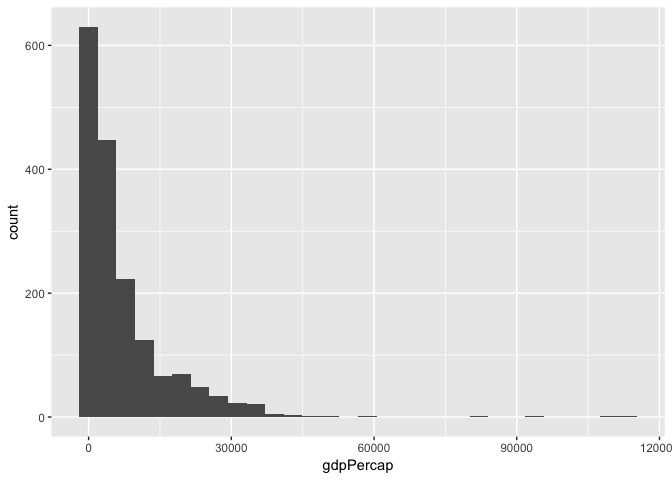
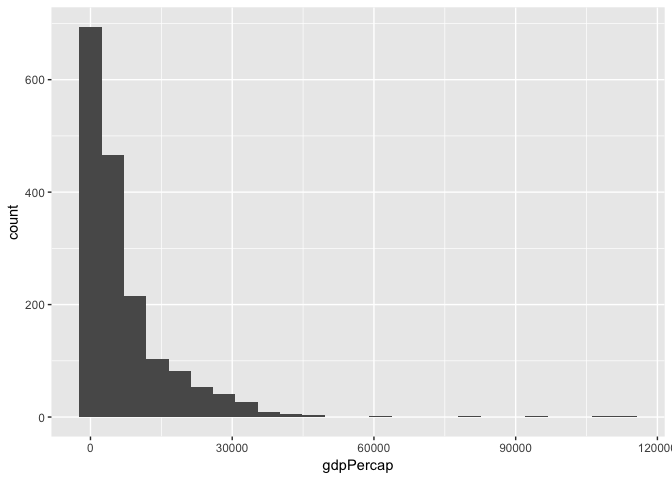
Finish mandatory parts of homework

diff --git a/hw02_gapminder.md b/hw02_gapminder.md
@@ -166,10 +166,8 @@ The minimum `gdpPercap` is 241.17 and the maximum is
 
 ``` r
 ggplot(gapminder, aes(gdpPercap)) +
-  geom_histogram()
+  geom_histogram(bins=25)
 ```
-
-    ## `stat_bin()` using `bins = 30`. Pick better value with `binwidth`.
 
 ![](hw02_gapminder_files/figure-gfm/unnamed-chunk-13-1.png)<!-- --> The
 distribution decays exponentially.
@@ -190,3 +188,93 @@ sd(gapminder$gdpPercap)
 The standard deviation is 9857.455
 
 ### Exploring various plot types
+
+``` r
+gapminder %>%
+  ggplot(aes(gdpPercap, lifeExp)) +
+  scale_x_log10() + 
+  geom_point()
+```
+
+![](hw02_gapminder_files/figure-gfm/unnamed-chunk-16-1.png)<!-- -->
+
+``` r
+gapminder %>%
+  ggplot(aes(lifeExp)) +
+  geom_histogram()
+```
+
+    ## `stat_bin()` using `bins = 30`. Pick better value with `binwidth`.
+
+![](hw02_gapminder_files/figure-gfm/unnamed-chunk-17-1.png)<!-- -->
+
+``` r
+gapminder %>%
+  ggplot(aes(continent, lifeExp)) +
+  geom_boxplot()
+```
+
+![](hw02_gapminder_files/figure-gfm/unnamed-chunk-18-1.png)<!-- -->
+\#\#\# Using `select` and `filter` with piping into `ggplot`
+
+``` r
+gapminder %>%
+  select(c(continent, gdpPercap, year)) %>%
+  filter(year %in% 1960:1980) %>%
+  ggplot(aes(continent, gdpPercap)) +
+  scale_y_log10() +
+  geom_boxplot()
+```
+
+![](hw02_gapminder_files/figure-gfm/unnamed-chunk-19-1.png)<!-- -->
+
+``` r
+gapminder %>%
+  select(c(country, pop, gdpPercap, year)) %>%
+  filter(gdpPercap > mean(gdpPercap)+2.5*sd(gdpPercap)) %>%
+  filter(year == 1997) %>%
+  ggplot(aes(country, pop)) +
+  geom_point()
+```
+
+![](hw02_gapminder_files/figure-gfm/unnamed-chunk-20-1.png)<!-- -->
+\#\#\# But I want to do more\!
+
+``` r
+filter(gapminder, country == c("Rwanda", "Afghanistan"))
+```
+
+    ## # A tibble: 12 x 6
+    ##    country     continent  year lifeExp      pop gdpPercap
+    ##    <fct>       <fct>     <int>   <dbl>    <int>     <dbl>
+    ##  1 Afghanistan Asia       1957    30.3  9240934      821.
+    ##  2 Afghanistan Asia       1967    34.0 11537966      836.
+    ##  3 Afghanistan Asia       1977    38.4 14880372      786.
+    ##  4 Afghanistan Asia       1987    40.8 13867957      852.
+    ##  5 Afghanistan Asia       1997    41.8 22227415      635.
+    ##  6 Afghanistan Asia       2007    43.8 31889923      975.
+    ##  7 Rwanda      Africa     1952    40    2534927      493.
+    ##  8 Rwanda      Africa     1962    43    3051242      597.
+    ##  9 Rwanda      Africa     1972    44.6  3992121      591.
+    ## 10 Rwanda      Africa     1982    46.2  5507565      882.
+    ## 11 Rwanda      Africa     1992    23.6  7290203      737.
+    ## 12 Rwanda      Africa     2002    43.4  7852401      786.
+
+``` r
+filter(gapminder, country=='Rwanda' | country=='Afghanistan')
+```
+
+    ## # A tibble: 24 x 6
+    ##    country     continent  year lifeExp      pop gdpPercap
+    ##    <fct>       <fct>     <int>   <dbl>    <int>     <dbl>
+    ##  1 Afghanistan Asia       1952    28.8  8425333      779.
+    ##  2 Afghanistan Asia       1957    30.3  9240934      821.
+    ##  3 Afghanistan Asia       1962    32.0 10267083      853.
+    ##  4 Afghanistan Asia       1967    34.0 11537966      836.
+    ##  5 Afghanistan Asia       1972    36.1 13079460      740.
+    ##  6 Afghanistan Asia       1977    38.4 14880372      786.
+    ##  7 Afghanistan Asia       1982    39.9 12881816      978.
+    ##  8 Afghanistan Asia       1987    40.8 13867957      852.
+    ##  9 Afghanistan Asia       1992    41.7 16317921      649.
+    ## 10 Afghanistan Asia       1997    41.8 22227415      635.
+    ## # ... with 14 more rows
